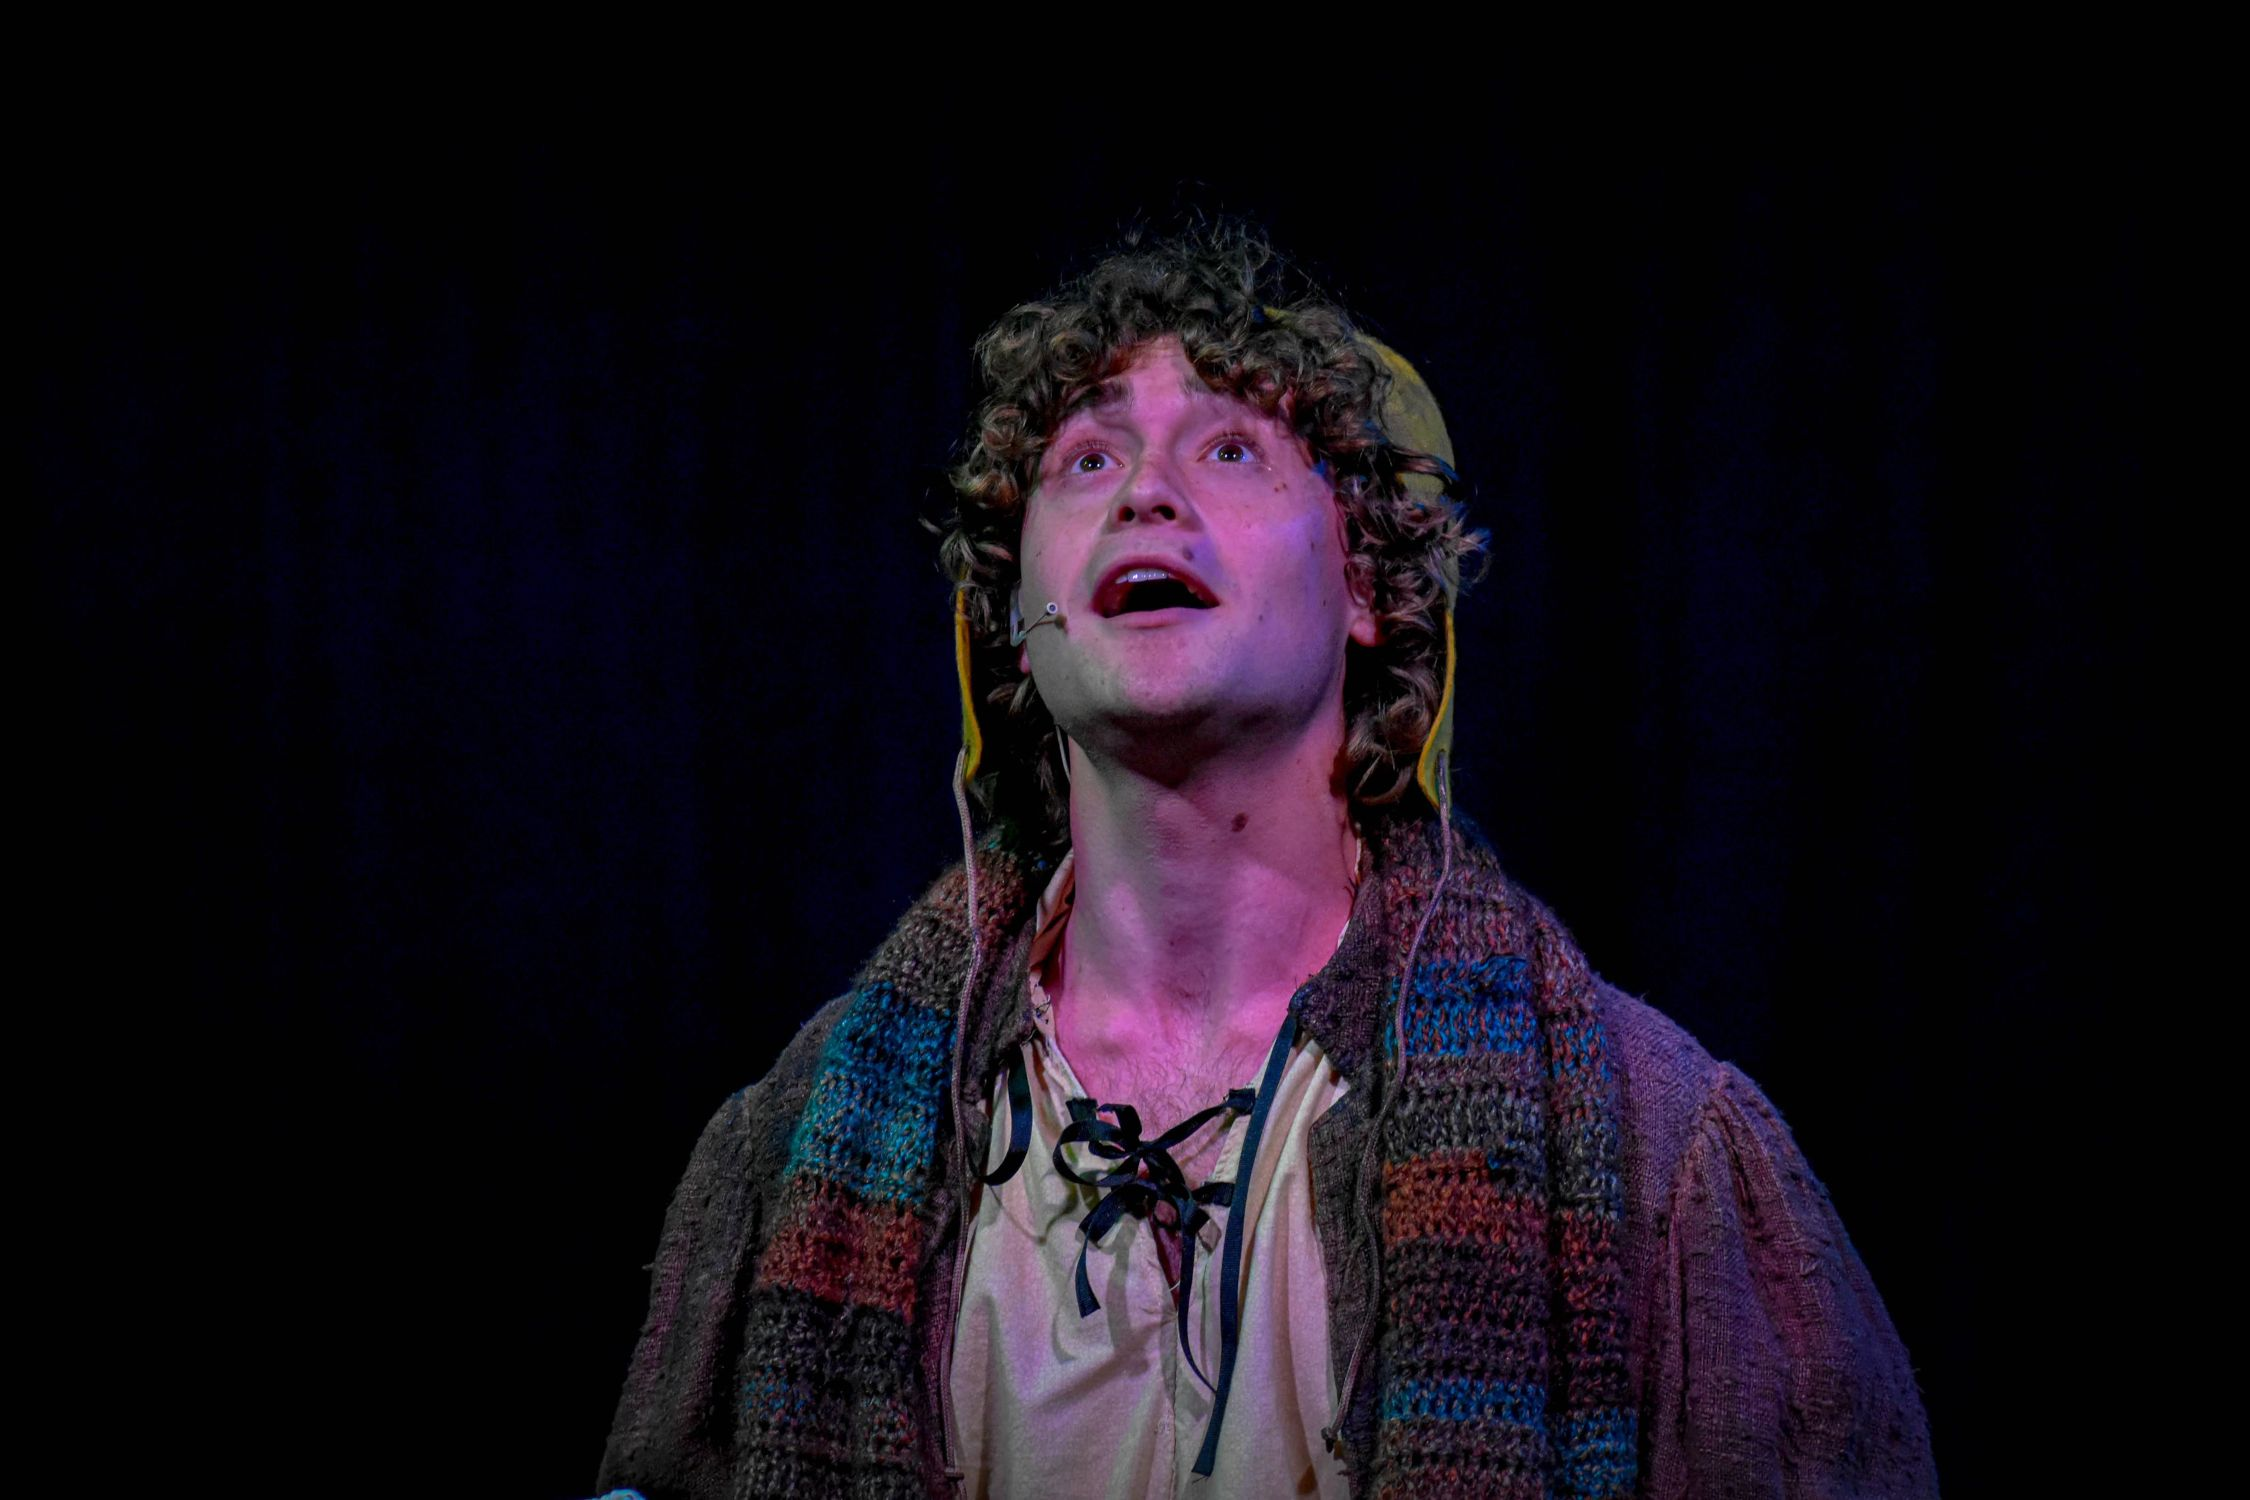
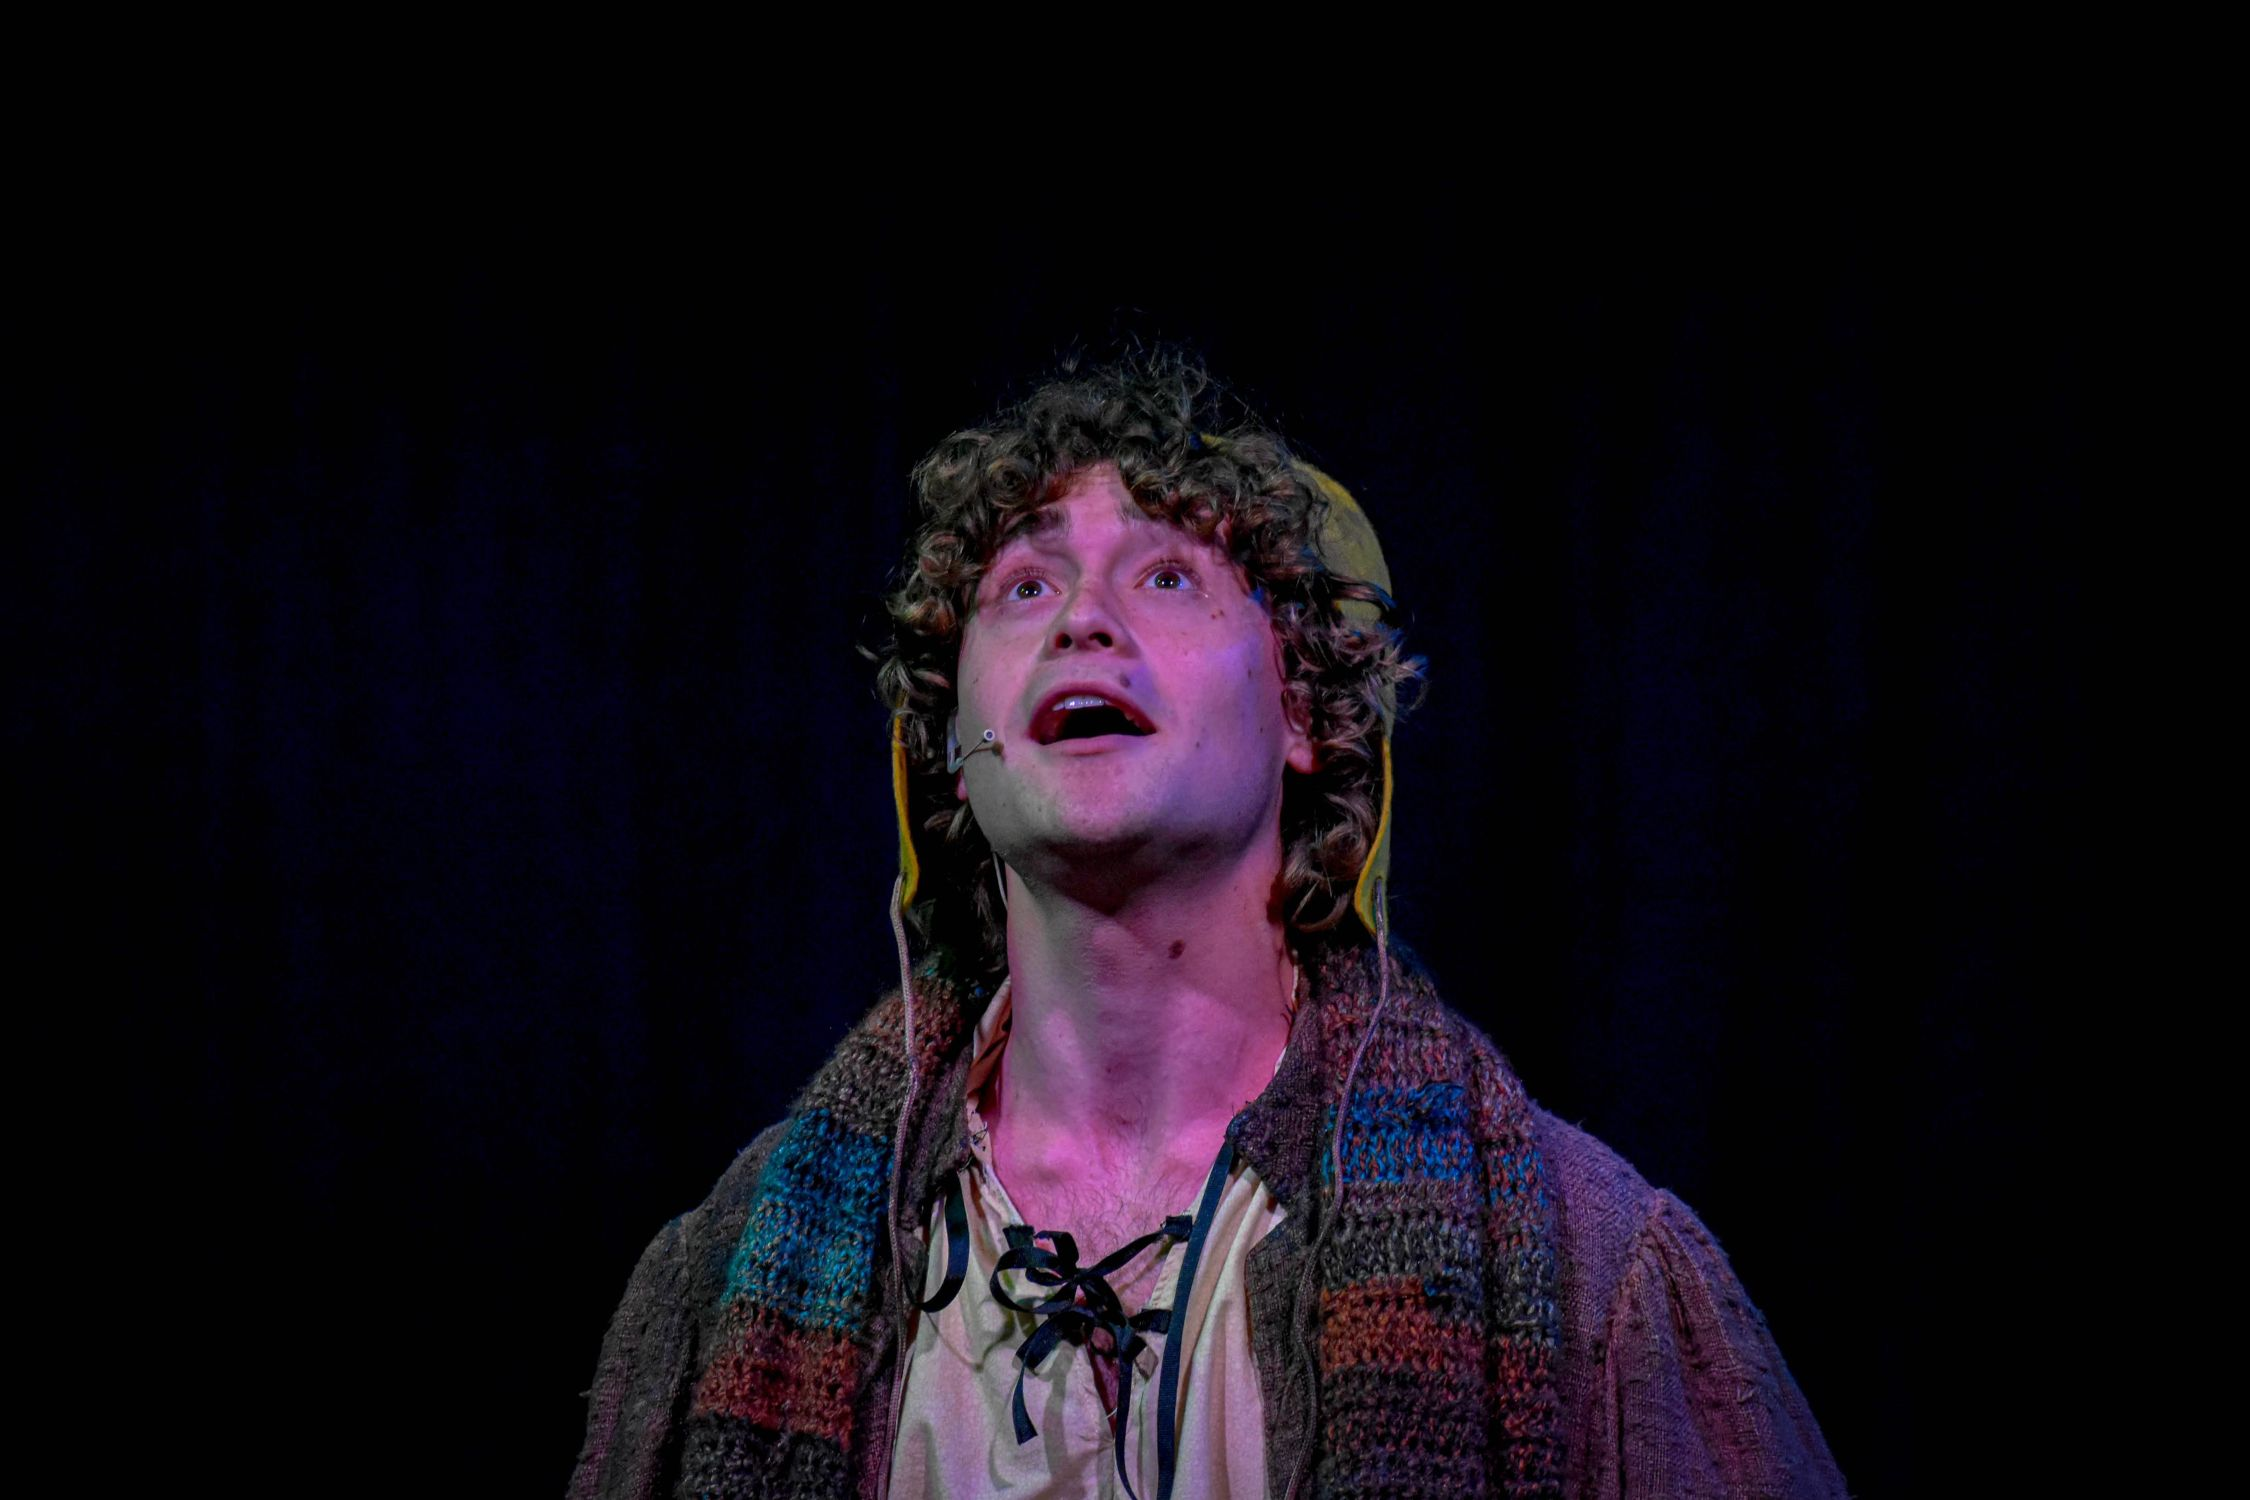
modified:   index.html 	modified:   public/images/photos/DaneHobrechtPhoto(005).jpeg 	modified:   public/images/photos/sources/DaneHobrechtPhoto(005).jpeg 	modified:   styles.css

Changed region(s): [[0.2489, 0.1533, 0.8711, 1.0]]

diff --git a/index.html b/index.html
@@ -39,6 +39,33 @@
 			</svg>
 		-->
 		<div class="performances">
+		<!--
+			<div class="module">
+				<a href="public/images/flyers/sources/Flyer(007).jpeg">
+					<img src="public/images/flyers/Flyer(007).jpeg" alt="Flyer for Footloose (2022) at No Square Theatre."/>
+				</a>
+				<div class="content">
+					<h1>Footloose</h1>
+					<p class="role">As "Willard"</p>
+					<button disabled type="button" onclick="window.open('<url>', '_blank');">TICKETS</button>
+					<p class="description">
+						When Ren and his mother move from Chicago to a small farming town,
+						he is prepared for the inevitable adjustment period at his new high 
+						school. But he’s not prepared for the rigorous local edicts, including 
+						a ban on dancing instituted by the local preacher, who is determined 
+						to exercise control over the town’s youth. When the reverend’s 
+						rebellious daughter sets her sights on Ren, her roughneck boyfriend 
+						tries to sabotage Ren’s reputation, with many of the locals eager to 
+						believe the worst about the new kid. The heartfelt story that emerges 
+						pins a father longing for the son he lost against a young man aching 
+						for the father who walked out on him.<br><br>To the rockin’ rhythm of 
+						its Oscar and Tony-nominated Top 40 score, augmented with dynamic new 
+						songs, Footloose celebrates the wisdom of listening to young people 
+						while guiding them with a warm heart and open mind.
+					</p>
+				</div>
+			</div>
+		-->
 			<div class="module">
 				<a href="public/images/flyers/sources/Flyer(006).jpeg">
 					<img src="public/images/flyers/Flyer(006).jpeg" alt="Flyer for Into The Woods (2022) at No Square Theatre."/>

diff --git a/styles.css b/styles.css
@@ -89,7 +89,7 @@ button:enabled:hover {
 	background-size: cover;
 	background-position: center;
 	background-repeat: no-repeat;
-	background-image: url("public/images/photos/DaneHobrechtPhoto(006).jpeg");
+	background-image: url("public/images/photos/DaneHobrechtPhoto(005).jpeg");
 }
 
 .title a {
